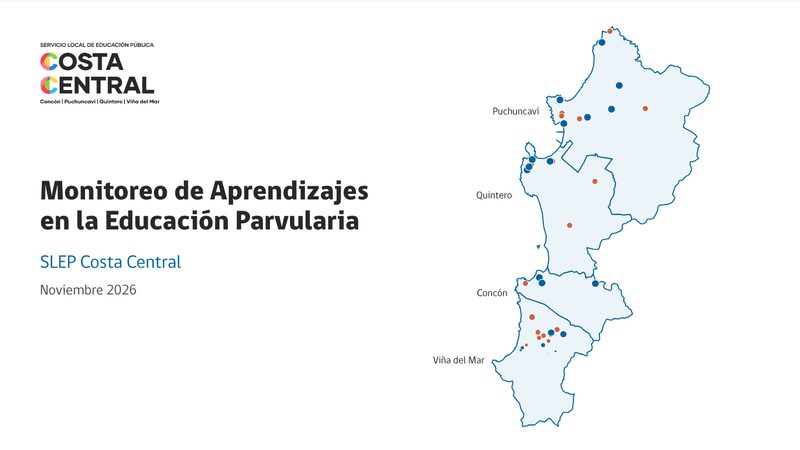
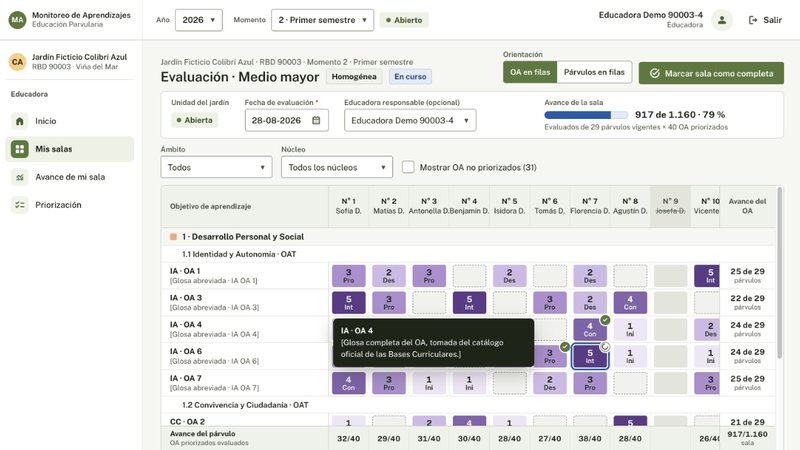
Miniatura de Educación Parvularia con la interfaz de evaluación; galería sin botón de descarga
Claude-Session: https://claude.ai/code/session_01DktqznuDM7sHgK5NX2wFN3

diff --git a/index.html b/index.html
@@ -77,12 +77,10 @@
   }
   .boton.primario { background: var(--azul); color: #fff; }
   .boton.primario:hover { background: var(--azul-oscuro); border-color: var(--azul-oscuro); }
-  .boton.secundario { color: var(--azul); background: #fff; }
-  .boton.secundario:hover { background: var(--azul-suave); }
   .boton:focus-visible, .miniatura:focus-visible, .tarjeta h2 a:focus-visible { outline: 2px solid var(--azul); outline-offset: 2px; }
   .vacio { color: var(--gris); }
 
-  footer { color: var(--gris); font-size: .82rem; margin-top: 3rem; padding-bottom: 2rem; }
+  footer.contenedor { color: var(--gris); font-size: .82rem; margin-top: 3rem; padding-bottom: 2rem; }
 
   @media (max-width: 640px) {
     .area { text-align: left; }
@@ -114,7 +112,7 @@
 </main>
 
 <footer class="contenedor">
-  Cada presentación es un archivo autocontenido: con "Descargar" se guarda en el equipo y funciona sin conexión.
+  Servicio Local de Educación Pública Costa Central · Área de Monitoreo y Seguimiento de Procesos y Resultados Educativos
 </footer>
 
 <script>
@@ -181,8 +179,7 @@
     if (p.descripcion) cuerpo.appendChild(el("p", {}, p.descripcion));
 
     const acc = el("div", { class: "acciones" });
-    acc.appendChild(el("a", { class: "boton primario", href: p.archivo }, "Abrir"));
-    acc.appendChild(el("a", { class: "boton secundario", href: p.archivo, download: p.archivo.split("/").pop() }, "Descargar"));
+    acc.appendChild(el("a", { class: "boton primario", href: p.archivo }, "Abrir presentación"));
     cuerpo.appendChild(acc);
 
     art.appendChild(cuerpo);
